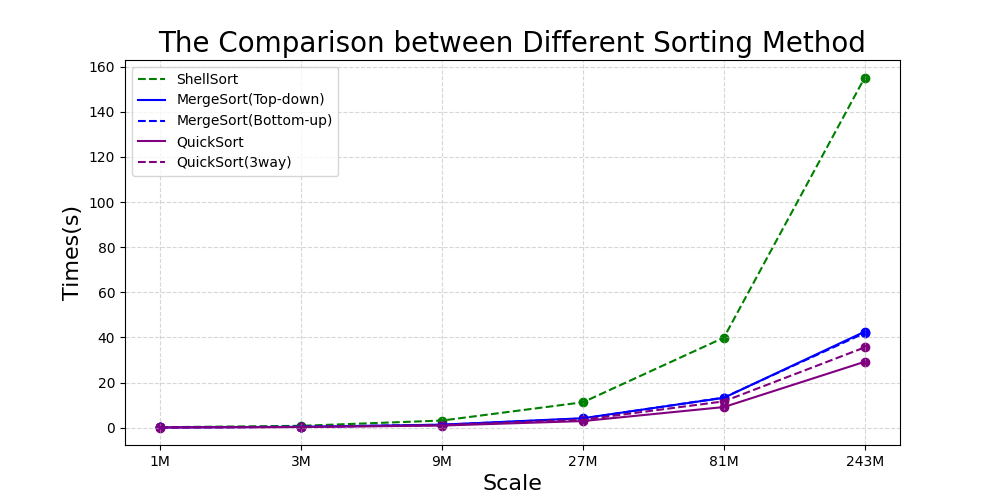
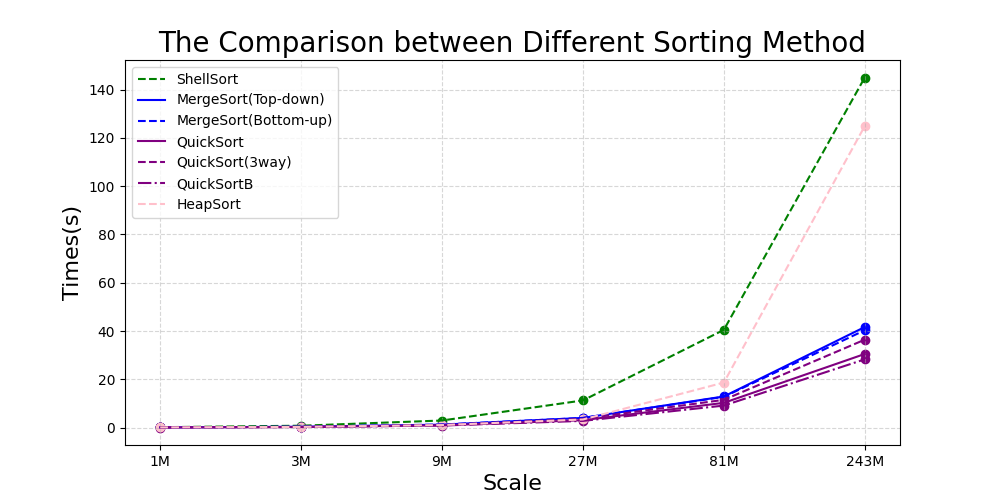
Sorting Comparison“

diff --git a/vector/benchmark.py b/vector/benchmark.py
@@ -1,7 +1,7 @@
 import os
 import matplotlib.pyplot as plt
 
-print("It may take several minutes...Please wait...")
+print("It may take half an hour...Please wait...")
 
 # For tiny scale of numbers like 2K - 128K.
 # This can include those O(n^2) Algorithm and they won't cost too much time.
@@ -19,7 +19,7 @@ for i in range(0,n):
     os.system('./random {} {}'.format(a, 'K'))
     a = a*times # 2, 4, 8, 16, 32, 64, 128
 
-for method in range(0,8):
+for method in range(0,10):
     a = init
     for scale in range(0,n):
         os.system('./sort {} {} {}'.format(method,a,'K'))
@@ -65,6 +65,8 @@ plt.plot(xstick, container[4], c='blue', label="MergeSort(Top-down)")
 plt.plot(xstick, container[5], c='blue', linestyle='--', label="MergeSort(Bottom-up)")
 plt.plot(xstick, container[6], c='purple', label="QuickSort")
 plt.plot(xstick, container[7], c='purple', linestyle='--', label="QuickSort(3way)")
+plt.plot(xstick, container[8], c='purple', linestyle='-.', label="QuickSortB")
+plt.plot(xstick, container[9], c='pink', linestyle='--', label="HeapSort")
 
 #散点图
 plt.scatter(xstick, container[0], c='red')
@@ -75,6 +77,8 @@ plt.scatter(xstick, container[4], c='blue')
 plt.scatter(xstick, container[5], c='blue')
 plt.scatter(xstick, container[6], c='purple')
 plt.scatter(xstick, container[7], c='purple')
+plt.scatter(xstick, container[8], c='purple')
+plt.scatter(xstick, container[9], c='pink')
 
 plt.legend()
 plt.savefig("./tiny.png")
@@ -95,7 +99,7 @@ for i in range(0,n):
     os.system('./random {} {}'.format(a, 'M'))
     a = a*times # 1M, 10M, 100M, 1Billion
 
-for method in range(3,8):
+for method in range(3,10):
     a = init
     for scale in range(0,n):
         os.system('./sort {} {} {}'.format(method,a,'M'))
@@ -136,6 +140,8 @@ plt.plot(xstick, container[1], c='blue', label="MergeSort(Top-down)")
 plt.plot(xstick, container[2], c='blue', linestyle='--', label="MergeSort(Bottom-up)")
 plt.plot(xstick, container[3], c='purple', label="QuickSort")
 plt.plot(xstick, container[4], c='purple', linestyle='--', label="QuickSort(3way)")
+plt.plot(xstick, container[5], c='purple', linestyle='-.', label="QuickSortB")
+plt.plot(xstick, container[6], c='pink', linestyle='--', label="HeapSort")
 
 #散点图
 plt.scatter(xstick, container[0], c='green')
@@ -143,6 +149,8 @@ plt.scatter(xstick, container[1], c='blue')
 plt.scatter(xstick, container[2], c='blue')
 plt.scatter(xstick, container[3], c='purple')
 plt.scatter(xstick, container[4], c='purple')
+plt.scatter(xstick, container[5], c='purple')
+plt.scatter(xstick, container[6], c='pink')
 
 plt.legend()
 plt.savefig("./large.png")
@@ -264,12 +272,12 @@ plt.title("The Comparison between Different Sorting Method", fontdict={'size': 2
 
 plt.plot(xstick, container[0], c='purple', label="QuickSort")
 plt.plot(xstick, container[1], c='purple', linestyle='--', label="QuickSort(3way)")
-plt.plot(xstick, container[2], c='pink',  label="QuickSortB")
+plt.plot(xstick, container[2], c='purple',  linestyle='-.',label="QuickSortB")
 
 #散点图
 plt.scatter(xstick, container[0], c='purple')
 plt.scatter(xstick, container[1], c='purple')
-plt.scatter(xstick, container[2], c='pink')
+plt.scatter(xstick, container[2], c='purple')
 
 plt.legend()
 plt.savefig("./quickSort.png")
@@ -329,12 +337,12 @@ plt.title("The Comparison between Different Sorting Method", fontdict={'size': 2
 
 plt.plot(xstick, container[0], c='purple', label="QuickSort")
 plt.plot(xstick, container[1], c='purple', linestyle='--', label="QuickSort(3way)")
-plt.plot(xstick, container[2], c='pink',  label="QuickSortB")
+plt.plot(xstick, container[2], c='purple', linestyle='-.', label="QuickSortB")
 
 #散点图
 plt.scatter(xstick, container[0], c='purple')
 plt.scatter(xstick, container[1], c='purple')
-plt.scatter(xstick, container[2], c='pink')
+plt.scatter(xstick, container[2], c='purple')
 
 plt.legend()
 plt.savefig("./quickCompare.png")

diff --git a/vector/Vector.hpp b/vector/Vector.hpp
@@ -12,6 +12,7 @@ enum class Sort {
     QuickSort,
     Quick3way,
     QuickSortB,
+    HeapSort,
 };
 
 template<typename T>
@@ -20,6 +21,7 @@ public:
     int _size;
     int _capacity;
     T* _elem;
+    int heap;
 
     void copyFrom(T const* A, Rank lo, Rank hi);
     void expand();//扩容
@@ -45,6 +47,10 @@ public:
     void quickSortB(Rank lo, Rank hi);
 
     void quick3way(Rank lo, Rank hi);
+
+    void sink(Rank k);
+    void heapSort(Rank lo, Rank hi);
+
 public:
     //构造函数
     Vector(int c = DEFAULT_CAPACITY, int s = 0, T v = T()){
@@ -279,6 +285,9 @@ double Vector<T>::sort(Rank lo, Rank hi, Sort method){
             //printf("QuickSortB.\n");
             quickSortB(lo, hi);
             break;
+        case Sort::HeapSort:
+            //printf("HeapSort.\n");
+            heapSort(lo, hi);
         default:
             //printf("QuickSort.\n");
             quickSort(lo, hi);
@@ -441,4 +450,26 @@ void Vector<T>::quickB(Rank lo, Rank hi){
     Rank j = partition(lo, hi);
     quickB(lo, j-1);
     quickB(j+1, hi);
+}
+
+template<typename T>
+void Vector<T>::sink(Rank k){
+    while(2*k <= heap){
+        int j = 2*k;
+        if(j < heap && _elem[j] < _elem[j+1]) j++;
+        if(!_elem[k] < _elem[j]) break;
+        swap(_elem[k], _elem[j]);
+        k = j;
+    }
+}
+
+template<typename T>
+void Vector<T>::heapSort(Rank lo, Rank hi){
+    heap = hi - lo - 1;
+    for(int k = heap/2; k >= 1; k--)
+        sink(k);
+    while(heap > 1){
+        swap(_elem[1], _elem[heap--]);
+        sink(1);
+    }
 }

diff --git a/vector/sort.cpp b/vector/sort.cpp
@@ -51,6 +51,9 @@ int main(int argc, char** argv){
         case 8:
             val = vec.sort(Sort::QuickSortB);
             break;
+        case 9:
+            val = vec.sort(Sort::HeapSort);
+            break;
         default:
             val = vec.sort(Sort::BubbleSort);
             break;
